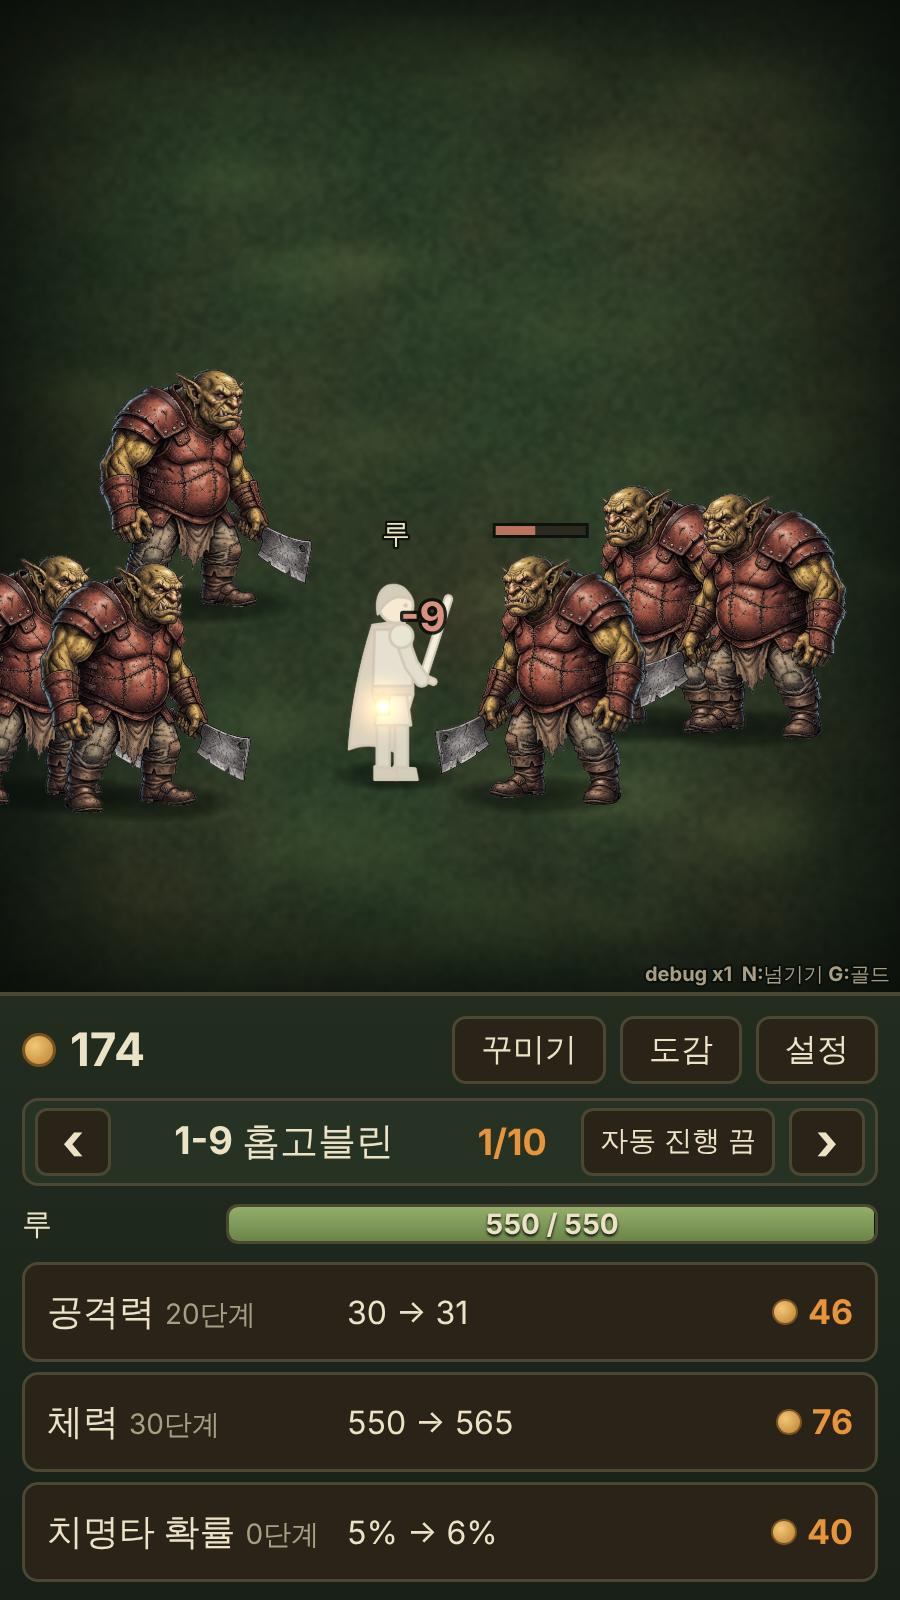
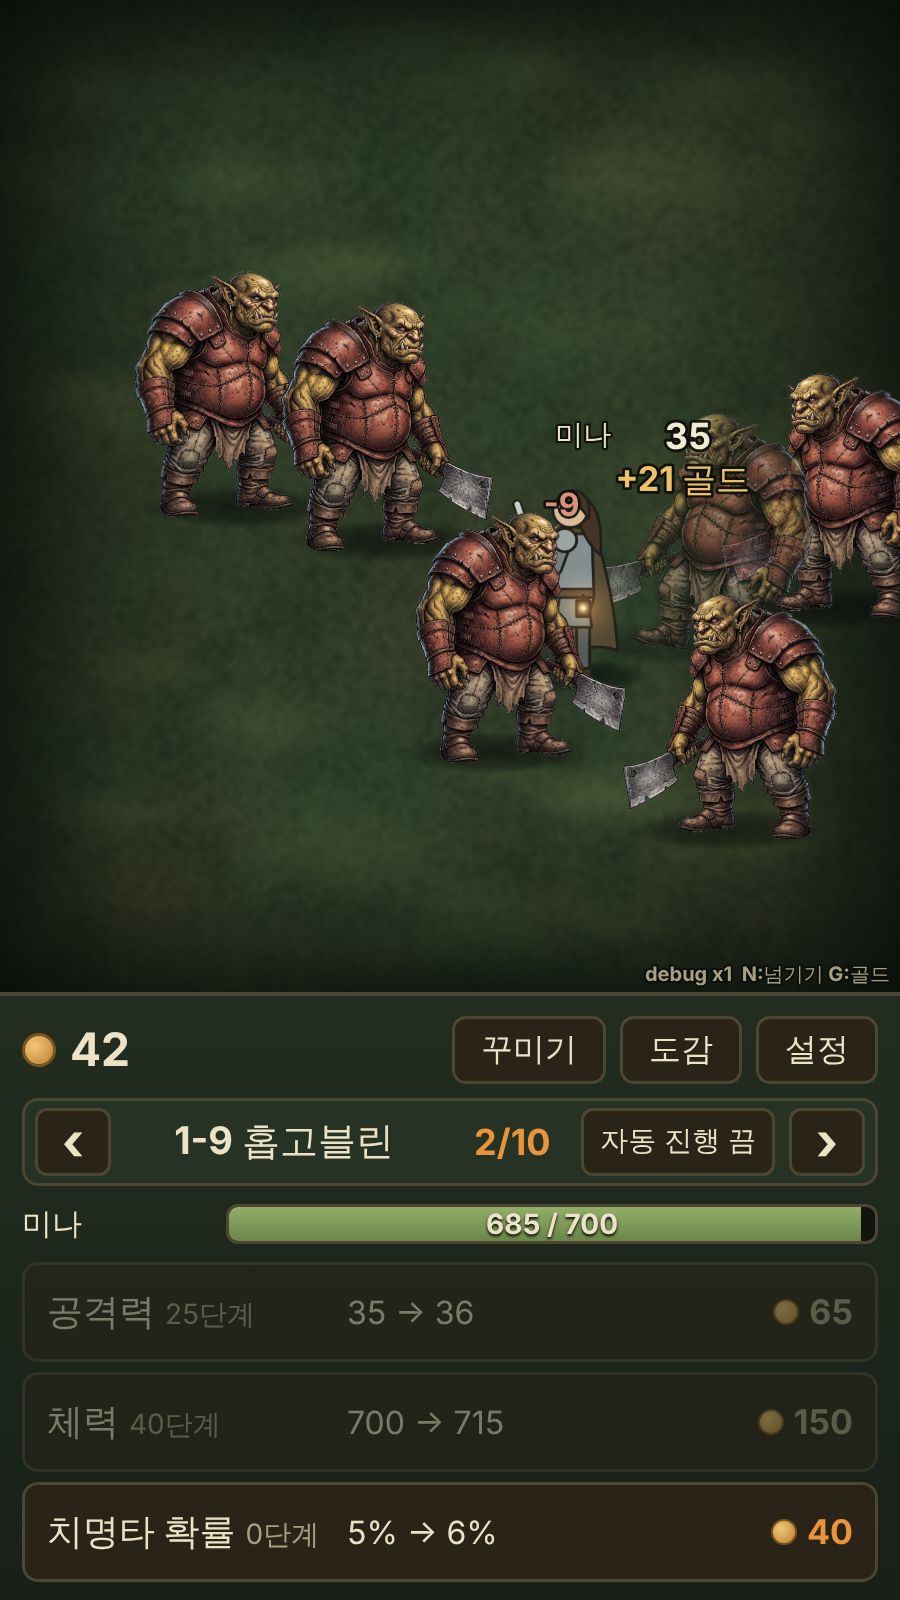
1구역 게임 첫 판: 세로 들판, 자동 사냥, 강화, 꾸미기·도감 화면, 저장
Claude-Session: https://claude.ai/code/session_019ctizXkAJK8e2QXDcDEkS2

diff --git a/index.html b/index.html
@@ -484,7 +484,7 @@ function makeBackground() {
 }
 
 /* ===================================================================== 게임 상태 */
-const BOUND = { x0:55, x1:845, y0:235, y1:955 };
+const BOUND = { x0:55, x1:845, y0:290, y1:955 };
 const R = {                          // 저장하지 않는 것
   t:0, mons:[], floats:[], parts:[], progress:0, spawnT:0.5, advanceT:-1, bossT:TUNE.BOSS_TIME, bossWait:0,
   banner:null, saveT:0, uiT:0, paused:true,
@@ -509,7 +509,7 @@ function spawnMonster() {
   let x, y;
   for (let i = 0; i < 8; i++) {
     const side = def.boss ? 0 : Math.floor(Math.random() * 4);
-    if (side === 0) { x = rand(110, FW - 110); y = def.boss ? 540 : BOUND.y0; }
+    if (side === 0) { x = rand(110, FW - 110); y = def.boss ? 540 : Math.max(BOUND.y0, def.h + 40 + (def.fly || 0)); }
     else if (side === 1) { x = rand(110, FW - 110); y = BOUND.y1; }
     else if (side === 2) { x = BOUND.x0; y = rand(BOUND.y0 + 40, BOUND.y1 - 30); }
     else { x = BOUND.x1; y = rand(BOUND.y0 + 40, BOUND.y1 - 30); }
